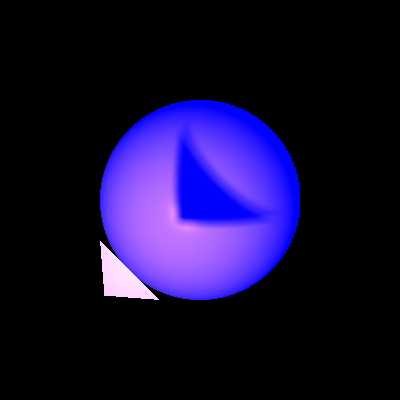
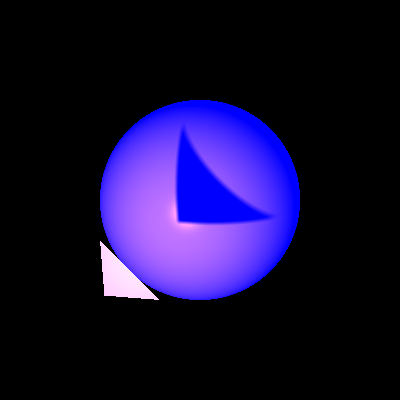
image - start

Changed region(s): [[0.42, 0.33, 0.69, 0.57]]

diff --git a/unittests/elements/LightsTests.java b/unittests/elements/LightsTests.java
@@ -21,10 +21,10 @@ public class LightsTests {
     private Camera camera2 = new Camera(new Point3D(0, 0, 1000), new Vector(0, 0, -1), new Vector(0, 1, 0)) //
             .setViewPlaneSize(200, 200) //
             .setDistance(1000);
-    private Camera camera3 = new Camera(new Point3D(0, 0, 220),
+    private Camera camera3 = new Camera(new Point3D(0, 40, 250),
                                         new Vector(0, 0, -1), new Vector(0, 1, 0)) //
                                        .setViewPlaneSize(200, 200) //
-                                       .setDistance(200);
+                                       .setDistance(120);
 
 
     private static Geometry triangle1 = new Triangle( //
@@ -195,37 +195,79 @@ public class LightsTests {
      */
     @Test
     public void test1() {
-Geometry polygon1 = new Polygon(new Point3D(0,0,0),  new Point3D(0,30,0),
+Geometry door1 = new Polygon(new Point3D(0,0,0),  new Point3D(0,30,0),
                 new Point3D(10,30,0),  new Point3D(10,0,0))
-                .setEmission(new Color(java.awt.Color.YELLOW).scale(0.05))
-                .setMaterial(new Material().setkD(0.5).setkS(0.5).setnShininess(100));
-        Geometry polygon2 = new Polygon(new Point3D(-1,0,0),  new Point3D(-1,30,0),
-                new Point3D(-11,30,0),  new Point3D(-11,0,0))
-                .setEmission(new Color(java.awt.Color.YELLOW).scale(0.05))
-                .setMaterial(new Material().setkD(0.5).setkS(0.5).setnShininess(100));
-        Geometry polygon3 = new Polygon(new Point3D(0,-1,0),  new Point3D(0,-31,0),
-                new Point3D(10,-31,0),  new Point3D(10,-1,0))
-                .setEmission(new Color(java.awt.Color.YELLOW).scale(0.05))
-                .setMaterial(new Material().setkD(0.5).setkS(0.5).setnShininess(100));
-        Geometry polygon4 = new Polygon(new Point3D(-1,-1,0),  new Point3D(-1,-31,0),
-                new Point3D(-11,-31,0),  new Point3D(-11,-1,0))
-                .setEmission(new Color(java.awt.Color.YELLOW).scale(0.05))
+                .setEmission(new Color(java.awt.Color.WHITE).scale(0.5))
                 .setMaterial(new Material().setkD(0.5).setkS(0.5).setnShininess(100));
 
-        Geometry polygon5 = new Polygon(new Point3D(-12,30,0),  new Point3D(-12,-31,0),
-                new Point3D(-22,-31,0),  new Point3D(-22,30,0))
-                .setEmission(new Color(java.awt.Color.YELLOW).scale(0.05))
+        Geometry middle1 = new Polygon(new Point3D(0,-31,0),  new Point3D(-1,-31,0),
+                new Point3D(-1,30,0),  new Point3D(0,30,0))
+                .setEmission(new Color(java.awt.Color.BLACK).scale(0.5))
                 .setMaterial(new Material().setkD(0.5).setkS(0.5).setnShininess(100));
+
+        Geometry door2 = new Polygon(new Point3D(-1,0,0),  new Point3D(-1,30,0),
+                new Point3D(-11,30,0),  new Point3D(-11,0,0))
+                .setEmission(new Color(java.awt.Color.WHITE).scale(0.5))
+                .setMaterial(new Material().setkD(0.5).setkS(0.5).setnShininess(100));
+        Geometry middle2 = new Polygon(new Point3D(-11,-31,0),  new Point3D(-12,-31,0),
+                new Point3D(-12,30,0),  new Point3D(-11,30,0))
+                .setEmission(new Color(java.awt.Color.BLACK).scale(0.5))
+                .setMaterial(new Material().setkD(0.5).setkS(0.5).setnShininess(100));
+        Geometry middle3 = new Polygon(new Point3D(10,0,0),  new Point3D(10,-1,0),
+                new Point3D(-11,-1,0),  new Point3D(-11,0,0))
+                .setEmission(new Color(java.awt.Color.BLACK).scale(0.5))
+                .setMaterial(new Material().setkD(0.5).setkS(0.5).setnShininess(100));
+        Geometry door3 = new Polygon(new Point3D(0,-1,0),  new Point3D(0,-31,0),
+                new Point3D(10,-31,0),  new Point3D(10,-1,0))
+                .setEmission(new Color(java.awt.Color.WHITE).scale(0.5))
+                .setMaterial(new Material().setkD(0.5).setkS(0.5).setnShininess(100));
+        Geometry door4 = new Polygon(new Point3D(-1,-1,0),  new Point3D(-1,-31,0),
+                new Point3D(-11,-31,0),  new Point3D(-11,-1,0))
+                .setEmission(new Color(java.awt.Color.WHITE).scale(0.5))
+                .setMaterial(new Material().setkD(0.5).setkS(0.5).setnShininess(100));
+
+        Geometry door5 = new Polygon(new Point3D(-12,30,0),  new Point3D(-12,-31,0),
+                new Point3D(-22,-31,0),  new Point3D(-22,30,0))
+                .setMaterial(new Material().setkD(0.5).setkS(0.5).setnShininess(100).setkR(1));
         Geometry floor= new Plane(new Point3D(0,-31,0),new Vector(0,1,0))
-                .setEmission(new Color(java.awt.Color.BLUE).scale(0.1))
+                .setEmission(new Color(java.awt.Color.GRAY))
+                .setMaterial(new Material().setkD(0.5).setkS(0.5).setnShininess(100));
+        Geometry roof= new Plane(new Point3D(0,50,0),new Vector(0,1,0))
+                .setEmission(new Color(java.awt.Color.WHITE).scale(0.1))
+                .setMaterial(new Material().setkD(0.5).setkS(0.5).setnShininess(100));
+        Geometry wallRight= new Plane(new Point3D(35,0,0),new Vector(1,0,0))
+                .setEmission(new Color(java.awt.Color.GRAY).scale(0.1))
+                .setMaterial(new Material().setkD(0.5).setnShininess(100));
+        Geometry wallLeft= new Plane(new Point3D(-100,0,0),new Vector(1,0,0))
+                .setEmission(new Color(java.awt.Color.BLACK).scale(0.1))
                 .setMaterial(new Material().setkD(0.5).setkS(0.5).setnShininess(100));
         Geometry wallBehind= new Plane(new Point3D(0,0,-20),new Vector(0,0,1))
-                .setEmission(new Color(java.awt.Color.lightGray).scale(0.1))
+                .setEmission(new Color(java.awt.Color.GRAY).scale(0.1))
+                .setMaterial(new Material().setkD(0.5).setnShininess(100));
+
+
+        Geometry handle1 = new Sphere(new Point3D(2,2,1),1)
+                .setEmission(new Color(java.awt.Color.RED).scale(0.1))
+                .setMaterial(new Material().setkD(0.5).setkS(0.5).setnShininess(100));
+        Geometry handle2 = new Sphere(new Point3D(2,-3,1),1)
+                .setEmission(new Color(java.awt.Color.RED).scale(0.1))
+                .setMaterial(new Material().setkD(0.5).setkS(0.5).setnShininess(100));
+        Geometry handle3 = new Sphere(new Point3D(-9,2,1),1)
+                .setEmission(new Color(java.awt.Color.RED).scale(0.1))
+                .setMaterial(new Material().setkD(0.5).setkS(0.5).setnShininess(100));
+        Geometry handle4 = new Sphere(new Point3D(-9,-3,1),1)
+                .setEmission(new Color(java.awt.Color.RED).scale(0.1))
                 .setMaterial(new Material().setkD(0.5).setkS(0.5).setnShininess(100));
 
 
-        scene1._geometries.add(polygon1,polygon2,polygon3,polygon4,polygon5,floor,wallBehind);
-        scene1._lights.add(new DirectionalLight(new Color(java.awt.Color.white).scale(0.5), new Vector(0, -1, -1)));
+        //foot1
+
+
+
+
+        scene1._geometries.add(door1,middle1,door2,middle2,door3,door4,door5,middle3,floor,wallBehind,handle1,handle2,handle3,handle4,roof
+        ,wallRight,wallLeft);
+        scene1._lights.add(new PointLight(new Color(java.awt.Color.YELLOW), new Point3D(0, 35, 35)));
 
         ImageWriter imageWriter = new ImageWriter("test1", 500, 500);
         Render render = new Render()//

diff --git a/src/elements/PointLight.java b/src/elements/PointLight.java
@@ -1,11 +1,9 @@
 package elements;
 
 import geometries.Plane;
-import primitives.Color;
-import primitives.Point3D;
-import primitives.Ray;
-import primitives.Vector;
+import primitives.*;
 
+import java.util.LinkedList;
 import java.util.List;
 
 /**
@@ -71,30 +69,32 @@ public class PointLight extends Light implements LightSource {
     private static final int PARTITION = 5;
     @Override
     public List<Point3D> randomPoints(Vector lightDirection) {
-        List<Point3D> randomPoints = null;
+        List<Point3D> randomPoints = new LinkedList<Point3D>();
         Plane lightSourcePlane = new Plane(_position, lightDirection);
-
-        Point3D p1 = _position.add(new Vector(0,0,1));
-        Point3D p2 = _position.add(new Vector(1,0,0));
-
-        Ray ray1 = new Ray(lightDirection,p1);
-        Ray ray2 = new Ray(lightDirection,p2);
+        Point3D p1 = _position.add(lightDirection.scale(10)
+                    .add(new Vector(lightDirection.getHead().getY() * -1, lightDirection.getHead().getX(),0)));
+        Ray ray1 = new Ray(lightDirection.scale(-1),p1);
 
         Point3D planePoint1 = lightSourcePlane.findIntersections(ray1).get(0);
-        Point3D planePoint2 = lightSourcePlane.findIntersections(ray2).get(0);
-
-        Vector x = planePoint2.subtract(planePoint1).normalize();
+        Vector x = planePoint1.subtract(_position).normalize();
         Vector y = x.crossProduct(lightDirection);
-
-        Point3D random ;
-        double distance = _radius / PARTITION;
-        for (int i = -PARTITION; i <= PARTITION; i++) {
-            random = _position.add(x.scale(i*distance));
-            double maxY= Math.sqrt( (_radius * _radius) - (i*distance)*(i*distance));
-            int maximumY = (int) maxY;
-            for (int j = -maximumY; j <= maximumY ; j++) {
-                randomPoints.add(random.add(y.scale(j*distance)));
+        Point3D xPoint;
+        Point3D yPoint;
+        double distance =  _radius / PARTITION;
+        for (int i = -PARTITION; i <= PARTITION ; i++) {
+            if (Util.alignZero(i*distance) != 0) {
+                xPoint = _position.add(x.scale(i * distance));
+            } else {
+                xPoint = _position;
             }
+            double maxY = Math.sqrt((_radius * _radius) - (i * distance) * (i * distance));
+            int moves = (int) (maxY / distance);
+            for (int j = -moves; j <= moves; j++) {
+                if (Util.alignZero(j*distance) != 0) {
+                    randomPoints.add(xPoint.add(y.scale(j * distance)));
+                }
+            }
+
         }
         return randomPoints;
     }

diff --git a/src/renderer/RayTracerBasic.java b/src/renderer/RayTracerBasic.java
@@ -5,6 +5,7 @@ import primitives.*;
 import scene.Scene;
 
 import javax.naming.LimitExceededException;
+import java.util.LinkedList;
 import java.util.List;
 
 import static geometries.Intersectable.GeoPoint;
@@ -262,14 +263,23 @@ public class RayTracerBasic extends RayTracerBase {
        List<Point3D> lightPoints = light.randomPoints(l);
        double ktrTotal = 0.0;
        double lightDistance = light.getDistance(geopoint.point);
-
-       for (Point3D lightPoint: lightPoints) {
-           Vector lightDirection = lightPoint.subtract(geopoint.point).normalize();
-           Ray lightRay = new Ray(geopoint.point, lightDirection, n);
+       List<Ray> lightRays = new LinkedList<>();
+       //directional light - no position
+       if (lightPoints ==null){
+           lightRays.add(new Ray(geopoint.point, l.scale(-1),n));
+       }
+       //light point with position in the 3D model
+       else{
+           for (Point3D lightPoint: lightPoints){
+               lightRays.add(new Ray(geopoint.point, lightPoint.subtract(geopoint.point).normalize(),n));
+           }
+       }
+       for (Ray lightRay: lightRays) {
            var intersections = _scene._geometries.findGeoIntersections(lightRay);
            if (intersections == null) {
                ktrTotal += 1.0;
-           } else {
+           }
+           else {
                double ktr = 1.0;
                for (GeoPoint gp : intersections) {
                    if (Util.alignZero(gp.point.distance(geopoint.point) - lightDistance) <= 0) {
@@ -283,7 +293,7 @@ public class RayTracerBasic extends RayTracerBase {
                ktrTotal += ktr;
            }
        }
-       return ( ktrTotal /  lightPoints.size() );
+       return ( ktrTotal /  lightRays.size() );
    }
 }
 

diff --git a/unittests/elements/SpotLightTest.java b/unittests/elements/SpotLightTest.java
@@ -27,11 +27,11 @@ class SpotLightTest {
                 .setViewPlaneSize(150, 150) //
                 .setDistance(100);
         Geometry sphere = new Sphere(new Point3D(0,0,-30),10).setMaterial(new Material().setkD(0.5).setkS(0.5).setnShininess(300));;
-        Geometry plane = new Plane(new Point3D(0,0,-50),new Vector(0,0,1)).setMaterial(new Material().setkD(0.5).setkS(0.5).setnShininess(300));;
+        Geometry plane = new Plane(new Point3D(0,0,-45),new Vector(0,0,1)).setMaterial(new Material().setkD(0.5).setkS(0.5).setnShininess(300));;
 
-        SpotLight spot = new SpotLight(new Vector(0, 0, -1),
-                new Color(400, 240, 0),
-                new Point3D(0, 0, 0));
+        SpotLight spot = new SpotLight(new Vector(-1, 0, -1),
+                new Color(java.awt.Color.WHITE),
+                new Point3D(20, 0, -10));
         scene1._geometries.add(sphere,plane);
         scene1._lights.add(spot);
 

diff --git a/src/elements/SpotLight.java b/src/elements/SpotLight.java
@@ -15,7 +15,7 @@ public class SpotLight extends PointLight {
     private Vector _direction;
 
     public SpotLight(Vector direction, Color intensity, Point3D position) {
-        this(direction, intensity, position, 5.0);
+        this(direction, intensity, position, 2.0);
     }
 
     public SpotLight(Vector direction, Color intensity, Point3D position, double radius) {
@@ -58,7 +58,7 @@ public class SpotLight extends PointLight {
         return super.getL(p);
     }
 
-    private static final int PARTITION = 5;
+    private static final int PARTITION = 7;
 
     @Override
     public List<Point3D> randomPoints(Vector lightDirection) {

diff --git a/src/elements/DirectionalLight.java b/src/elements/DirectionalLight.java
@@ -4,6 +4,7 @@ import primitives.Color;
 import primitives.Point3D;
 import primitives.Vector;
 
+import java.util.LinkedList;
 import java.util.List;
 
 /**
@@ -34,7 +35,7 @@ public class DirectionalLight extends Light implements LightSource{
 
     @Override
     public List<Point3D> randomPoints(Vector lightDirection) {
-        return null;
+        return  null;
     }
 
 
